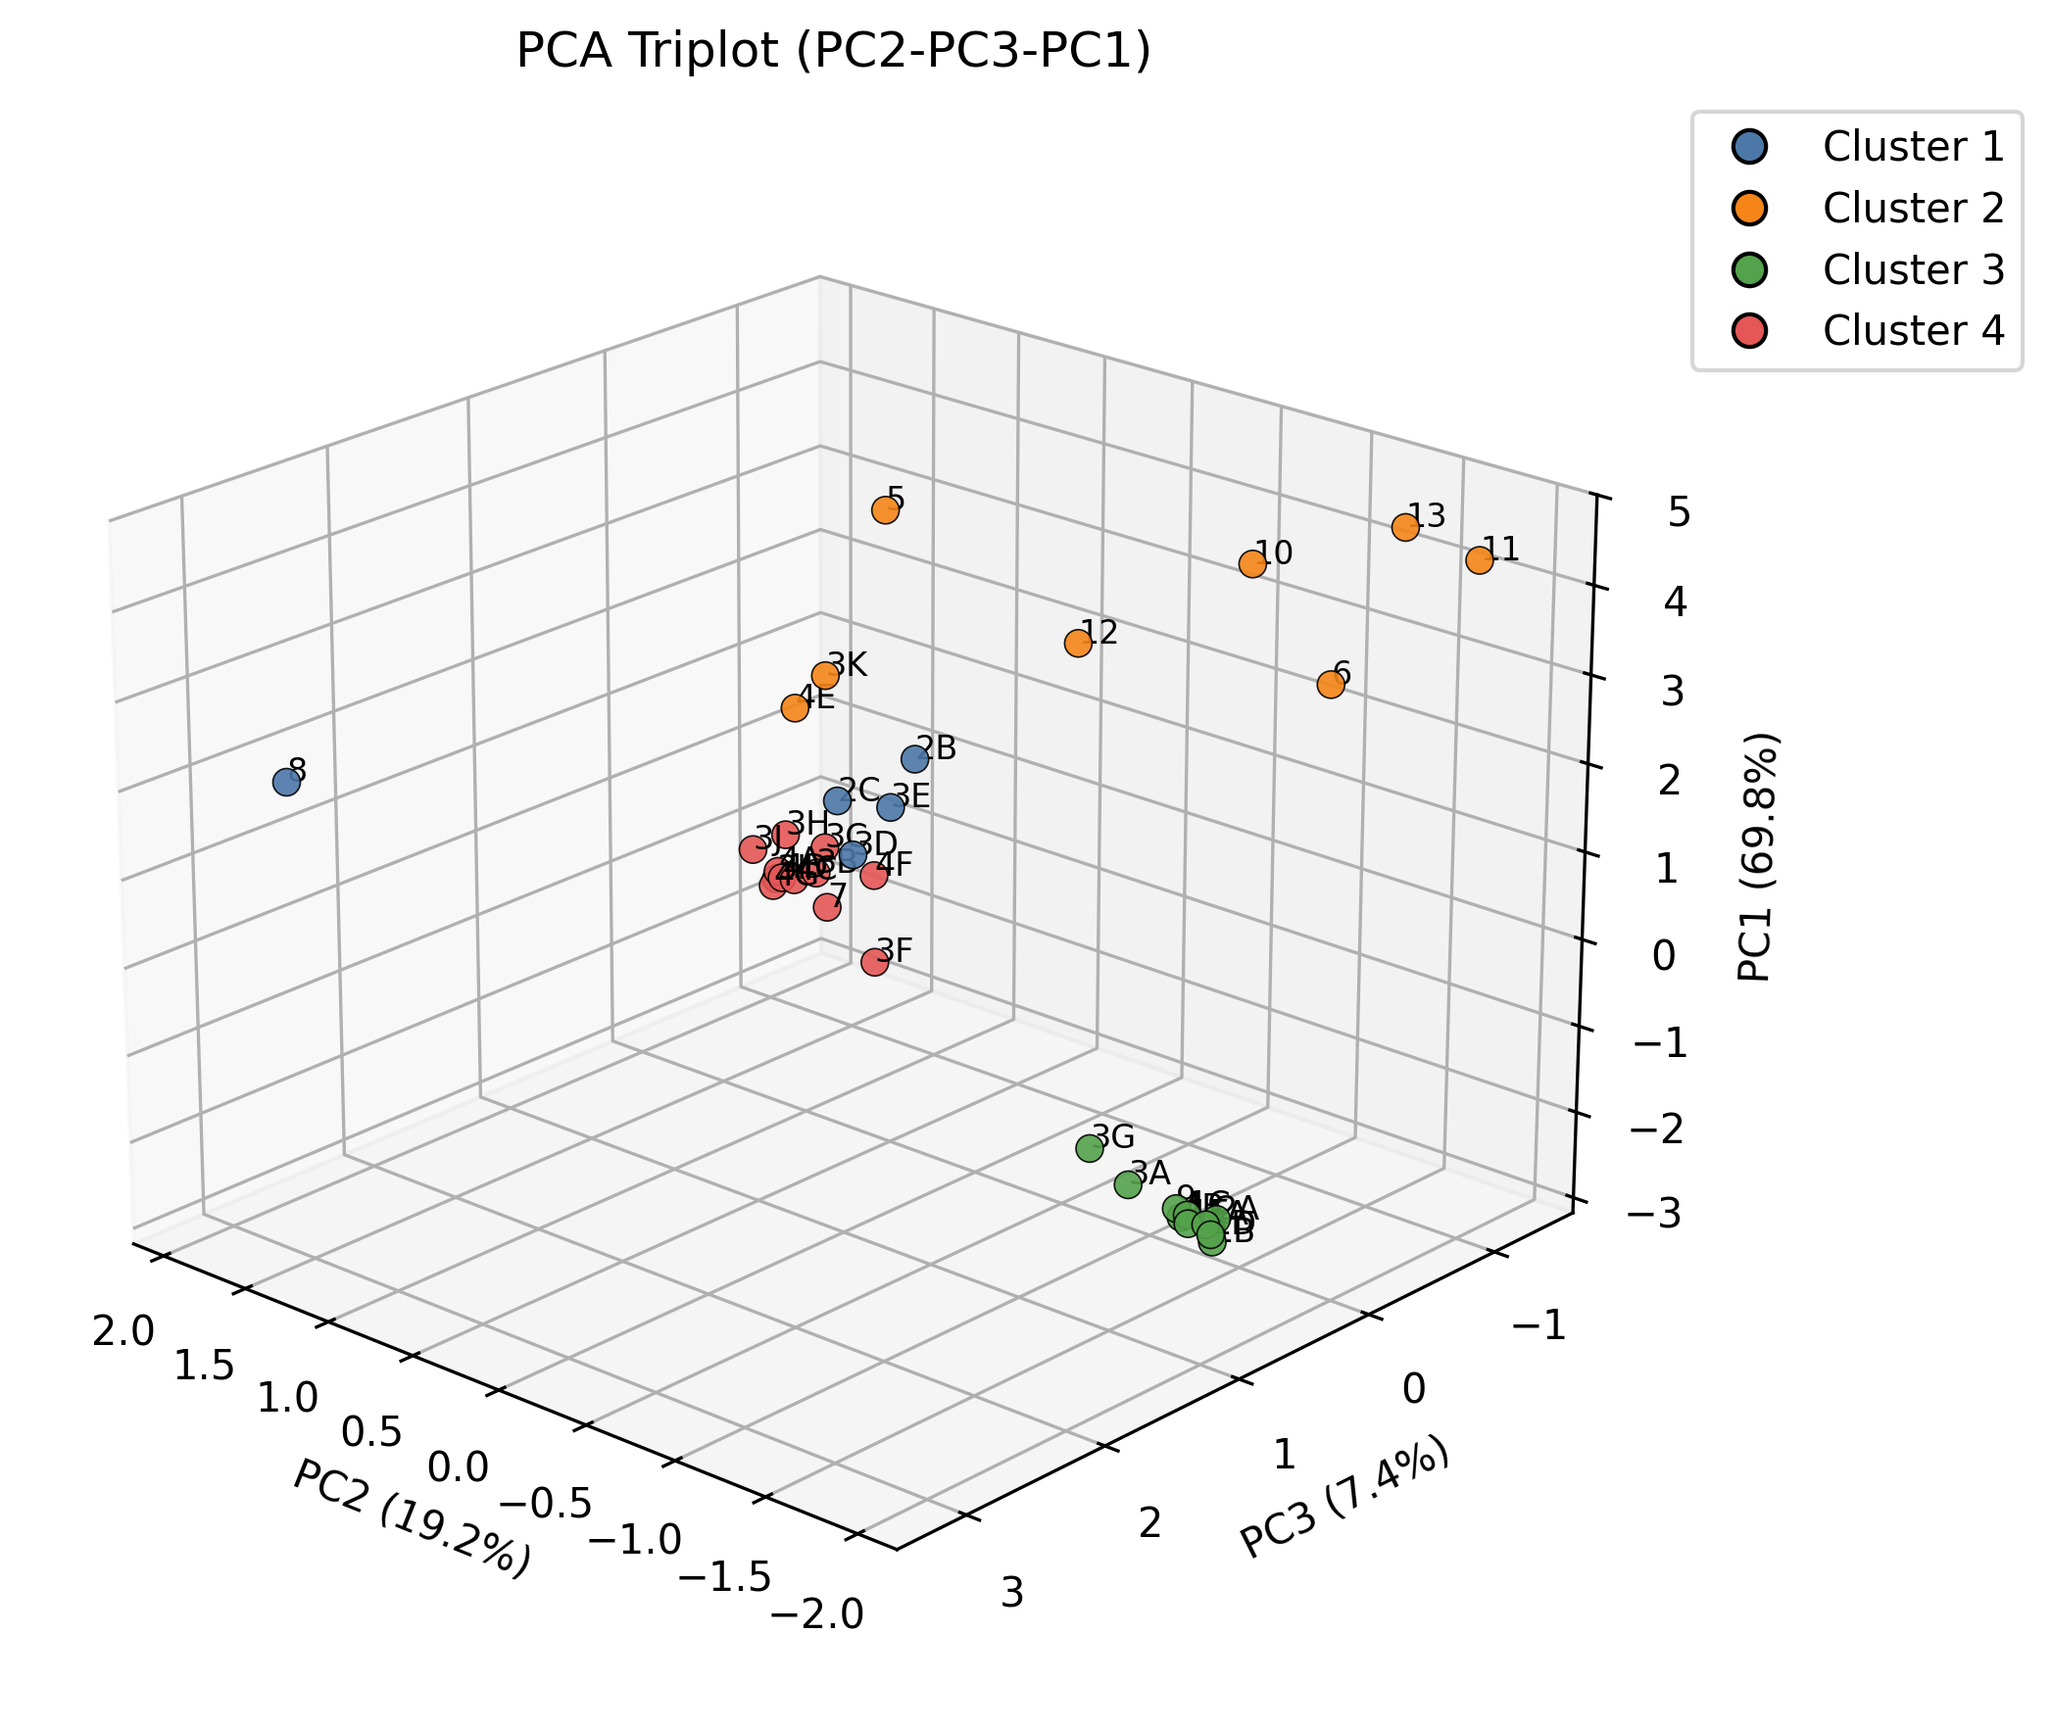
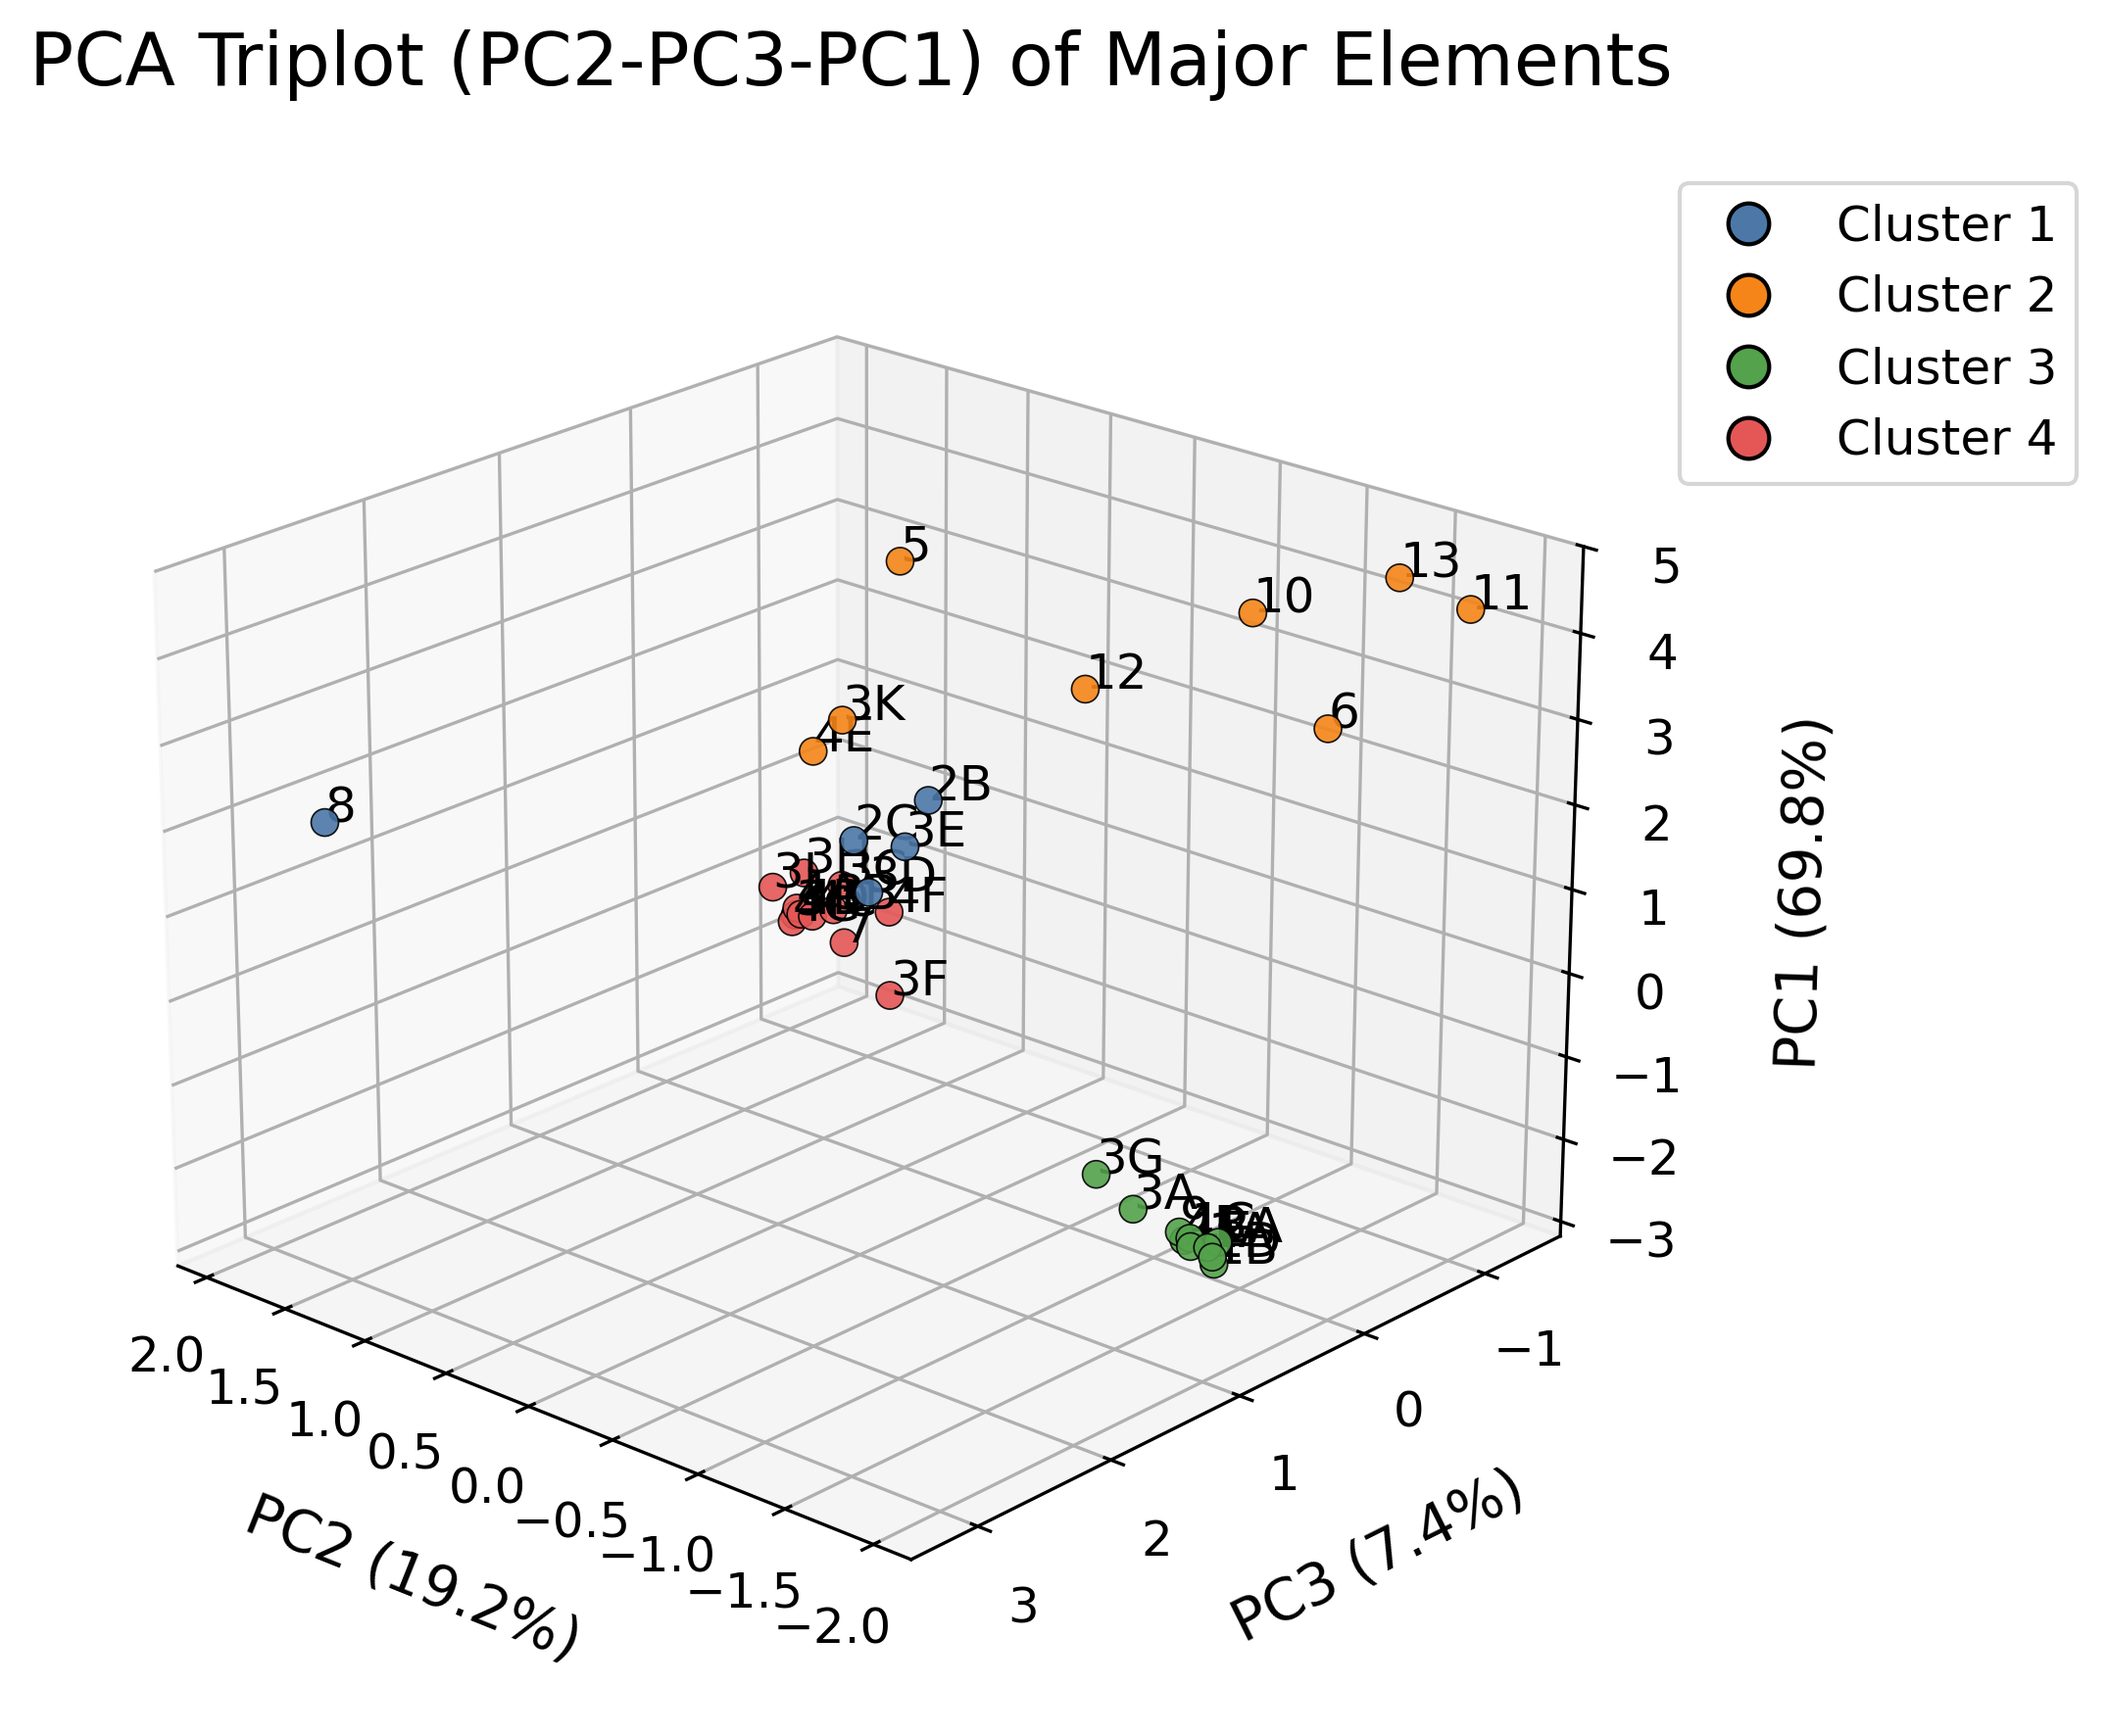
pca triplot ME finalized

diff --git a/app.py b/app.py
@@ -142,6 +142,12 @@ def plot_triplot(scores, cluster_series, explained, outpath):
 	from matplotlib.lines import Line2D
 	from mpl_toolkits.mplot3d import Axes3D  # noqa: F401
 
+	title_fontsize = 18
+	axis_fontsize = 14
+	tick_fontsize = 12
+	label_fontsize = 12
+	legend_fontsize = 12
+
 	if scores.shape[1] < 3:
 		raise ValueError('At least three principal components are required for the triplot.')
 
@@ -170,18 +176,21 @@ def plot_triplot(scores, cluster_series, explained, outpath):
 		)
 		legend_handles.append(
 			Line2D([0], [0], marker='o', color='w', label=f'Cluster {cluster_id}',
-				markerfacecolor=color, markeredgecolor='black', markersize=8)
+				markerfacecolor=color, markeredgecolor='black', markersize=10)
 		)
 
 	for sample_name, row in scores.iterrows():
-		ax.text(row[x_col], row[y_col], row[z_col], sample_name, fontsize=8)
+		ax.text(row[x_col], row[y_col], row[z_col], sample_name, fontsize=label_fontsize)
 
-	ax.set_xlabel(f'{x_col} ({explained[x_col] * 100:.1f}%)')
-	ax.set_ylabel(f'{y_col} ({explained[y_col] * 100:.1f}%)')
-	ax.set_zlabel(f'{z_col} ({explained[z_col] * 100:.1f}%)')
-	ax.set_title('PCA Triplot (PC2-PC3-PC1)')
+	ax.set_xlabel(f'{x_col} ({explained[x_col] * 100:.1f}%)', fontsize=axis_fontsize, labelpad=12)
+	ax.set_ylabel(f'{y_col} ({explained[y_col] * 100:.1f}%)', fontsize=axis_fontsize, labelpad=12)
+	ax.set_zlabel(f'{z_col} ({explained[z_col] * 100:.1f}%)', fontsize=axis_fontsize, labelpad=12)
+	ax.set_title('PCA Triplot (PC2-PC3-PC1) of Major Elements', fontsize=title_fontsize, pad=18)
+	ax.tick_params(axis='x', labelsize=tick_fontsize)
+	ax.tick_params(axis='y', labelsize=tick_fontsize)
+	ax.tick_params(axis='z', labelsize=tick_fontsize)
 	ax.view_init(elev=22, azim=132)
-	ax.legend(handles=legend_handles, loc='upper left', bbox_to_anchor=(1.02, 1.0))
+	ax.legend(handles=legend_handles, loc='upper left', bbox_to_anchor=(1.02, 1.0), fontsize=legend_fontsize)
 	plt.tight_layout()
 	plt.savefig(outpath, dpi=300, bbox_inches='tight')
 	plt.close()
